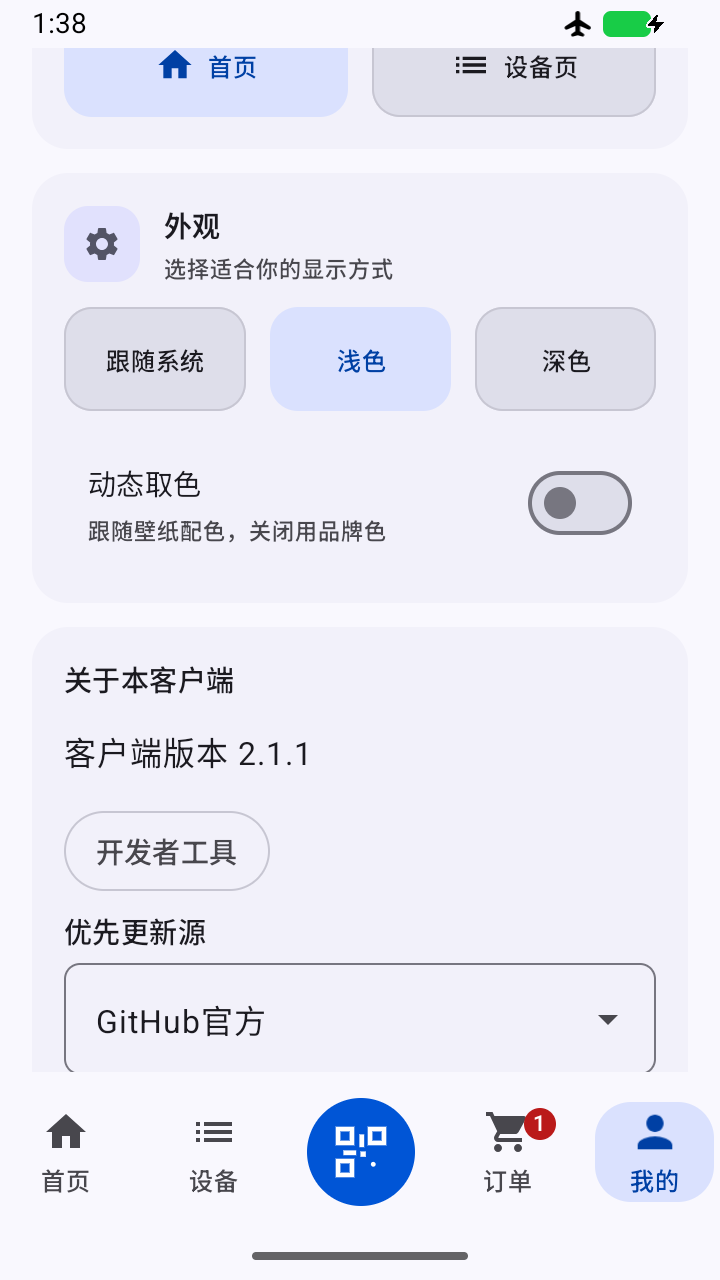
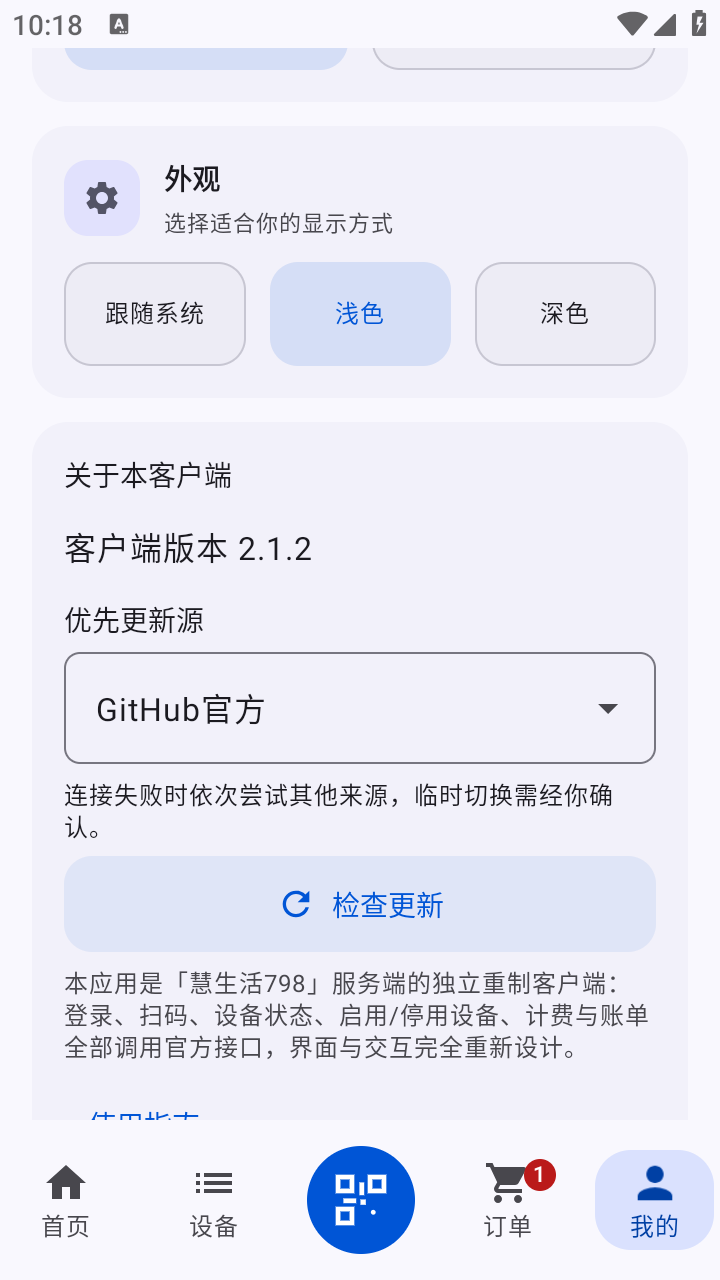
fix(ui): 恢复紧凑卡片并减轻选项按钮底色

diff --git a/SmartLife798/app/src/main/java/com/smartlife798/app/ui/MeScreen.kt b/SmartLife798/app/src/main/java/com/smartlife798/app/ui/MeScreen.kt
@@ -27,6 +27,7 @@ import androidx.compose.foundation.shape.RoundedCornerShape
 import androidx.compose.material.icons.Icons
 import androidx.compose.material.icons.automirrored.filled.ExitToApp
 import androidx.compose.material.icons.automirrored.filled.List
+import androidx.compose.material.icons.filled.Refresh
 import androidx.compose.material.icons.filled.Home
 import androidx.compose.material.icons.filled.Settings
 import androidx.compose.material3.AlertDialog
@@ -363,12 +364,26 @@ fun MeScreen(
                         }
                     }
                     Text("连接失败时依次尝试其他来源，临时切换需经你确认。", style = MaterialTheme.typography.bodySmall)
-                    OutlinedButton(
-                        shapes = androidx.compose.material3.ButtonDefaults.shapes(),
+                    androidx.compose.material3.FilledTonalButton(
+                        shapes = androidx.compose.material3.ButtonDefaults.shapes(shape = RoundedCornerShape(14.dp)),
+                        colors = androidx.compose.material3.ButtonDefaults.filledTonalButtonColors(
+                            containerColor = MaterialTheme.colorScheme.primary.copy(alpha = 0.08f),
+                            contentColor = MaterialTheme.colorScheme.primary,
+                        ),
                         onClick = { vm.checkAppUpdate(manual = true) },
-                        modifier = Modifier.fillMaxWidth(),
+                        modifier = Modifier.fillMaxWidth().heightIn(min = 48.dp),
                         enabled = !checkingUpdate,
-                    ) { Text(if (checkingUpdate) "正在检查更新…" else "检查更新") }
+                    ) {
+                        if (checkingUpdate) {
+                            androidx.compose.material3.CircularProgressIndicator(
+                                modifier = Modifier.size(18.dp), strokeWidth = 2.dp,
+                            )
+                        } else {
+                            Icon(Icons.Default.Refresh, contentDescription = null, modifier = Modifier.size(20.dp))
+                        }
+                        Spacer(Modifier.width(8.dp))
+                        Text(if (checkingUpdate) "正在检查更新…" else "检查更新")
+                    }
                     Text(
                         "本应用是「慧生活798」服务端的独立重制客户端：登录、扫码、设备状态、启用/停用设备、" +
                             "计费与账单全部调用官方接口，界面与交互完全重新设计。",

diff --git a/SmartLife798/app/src/main/java/com/smartlife798/app/ui/components/ExpressiveControls.kt b/SmartLife798/app/src/main/java/com/smartlife798/app/ui/components/ExpressiveControls.kt
@@ -154,10 +154,10 @@ private fun AdaptiveChoiceGroup(
                                         checkedShape = RoundedCornerShape(14.dp),
                                     ),
                                     colors = ToggleButtonDefaults.tonalToggleButtonColors(
-                                        containerColor = colors.surfaceContainerHighest,
-                                        checkedContainerColor = colors.primaryContainer,
+                                        containerColor = if (secondary) colors.surfaceContainerLow else colors.surfaceContainer,
+                                        checkedContainerColor = colors.primary.copy(alpha = if (secondary) 0.08f else 0.12f),
                                         contentColor = if (secondary) colors.onSurfaceVariant else colors.onSurface,
-                                        checkedContentColor = colors.onPrimaryContainer,
+                                        checkedContentColor = colors.primary,
                                     ),
                                     border = if (isSelected) null else BorderStroke(1.dp, colors.outlineVariant),
                                     contentPadding = padding,
@@ -172,10 +172,10 @@ private fun AdaptiveChoiceGroup(
                                         checkedShape = RoundedCornerShape(14.dp),
                                     ),
                                     colors = ToggleButtonDefaults.toggleButtonColors(
-                                        containerColor = colors.surfaceContainerHighest,
+                                        containerColor = if (secondary) colors.surfaceContainerLow else colors.surfaceContainer,
                                         contentColor = colors.onSurface,
-                                        checkedContainerColor = colors.primary,
-                                        checkedContentColor = colors.onPrimary,
+                                        checkedContainerColor = colors.primary.copy(alpha = 0.16f),
+                                        checkedContentColor = colors.primary,
                                     ),
                                     border = if (isSelected) null else BorderStroke(1.dp, colors.outlineVariant),
                                     contentPadding = padding, content = content)

diff --git a/SmartLife798/app/src/androidTest/java/com/smartlife798/app/VisualAlignmentChecks.kt b/SmartLife798/app/src/androidTest/java/com/smartlife798/app/VisualAlignmentChecks.kt
@@ -91,6 +91,22 @@ object VisualAlignmentChecks {
                 open("我的")
                 await { find(test, "修改昵称") != null }
                 capture("me-${theme.name.lowercase()}")
+                stage = "update button $theme"
+                await {
+                    val button = find(test, "检查更新")
+                    if (button == null) {
+                        nodes(test.uiAutomation.rootInActiveWindow).firstOrNull { it.isScrollable && it.isVisibleToUser }
+                            ?.performAction(AccessibilityNodeInfo.ACTION_SCROLL_FORWARD)
+                        false
+                    } else true
+                }
+                capture("update-${theme.name.lowercase()}")
+                repeat(6) {
+                    nodes(test.uiAutomation.rootInActiveWindow).firstOrNull { it.isScrollable && it.isVisibleToUser }
+                        ?.performAction(AccessibilityNodeInfo.ACTION_SCROLL_BACKWARD)
+                    SystemClock.sleep(100)
+                }
+                stage = "wallet navigation $theme"
                 open("钱包")
                 await { find(test, "充值金额") != null }
                 capture("wallet-${theme.name.lowercase()}")
@@ -118,7 +134,9 @@ object VisualAlignmentChecks {
             await { vm.guideDeck.value == null }
             stage = "scanner and manual input"
             open("首页")
-            open("扫码")
+            await { find(test, "打开相机扫码") != null }
+            SystemClock.sleep(500)
+            open("打开相机扫码")
             await { find(test, "手动输入") != null }
             capture("scan")
             open("手动输入")

diff --git a/SmartLife798/app/src/main/java/com/smartlife798/app/ui/HomeScreen.kt b/SmartLife798/app/src/main/java/com/smartlife798/app/ui/HomeScreen.kt
@@ -485,7 +485,7 @@ private fun FavoriteTile(device: Device, pinned: Boolean, isScrolling: () -> Boo
         colors = CardDefaults.cardColors(containerColor = if (pinned) MaterialTheme.colorScheme.surfaceContainer else MaterialTheme.colorScheme.surfaceContainerLow),
         elevation = CardDefaults.cardElevation(defaultElevation = 1.dp),
     ) {
-        Column(Modifier.padding(AppLayout.Card), verticalArrangement = Arrangement.spacedBy(8.dp)) {
+        Column(Modifier.padding(14.dp), verticalArrangement = Arrangement.spacedBy(8.dp)) {
             Row(
                 modifier = Modifier.fillMaxWidth(),
                 horizontalArrangement = Arrangement.SpaceBetween,
@@ -505,8 +505,7 @@ private fun FavoriteTile(device: Device, pinned: Boolean, isScrolling: () -> Boo
                 device.name.ifBlank { DeviceType.nameOrNull(device.dtype) ?: "设备" },
                 style = MaterialTheme.typography.titleSmall,
                 color = MaterialTheme.colorScheme.onSurface,
-                maxLines = 2,
-                minLines = 2,
+                maxLines = 1,
                 overflow = TextOverflow.Ellipsis,
             )
             Text(

diff --git a/docs/02-功能设计与UI方案.md b/docs/02-功能设计与UI方案.md
@@ -361,7 +361,7 @@ App
 
 | 页面 | 文件 | 来源与限制 |
 |---|---|---|
-| 首页 | [home.png](../screenshots/home.png) | 2.1.1，置顶与未置顶卡等高、统一状态色 |
+| 首页 | [home.png](../screenshots/home.png) | 本次样式开发构建 2.1.2 / 70，API 28，紧凑等高卡片 |
 | 设备 | [devices.png](../screenshots/devices.png) | 2.1.1，浅色列表、置顶优先与可辨识的未选中按钮 |
 | 订单 | [orders.png](../screenshots/orders.png) | 2.1.1，普通记录 |
 | 待付款 | [preview_bills.png](../screenshots/preview_bills.png) | 2.1.1，账单筛选 |
@@ -369,12 +369,12 @@ App
 | 钱包 | [wallet.png](../screenshots/wallet.png) | 2.1.1，仅展示夹具商品、未创建充值单 |
 | 设备详情 | [device.png](../screenshots/device.png) | 2.1.1，仅读取夹具，不启停设备 |
 | 登录 | [login.png](../screenshots/login.png) | 2.1.1，仅渲染表单，不发短信或提交登录 |
-| 浅色外观 | [appearance_light.png](../screenshots/appearance_light.png) | 2.1.1，动态取色关闭 |
+| 浅色外观 | [appearance_light.png](../screenshots/appearance_light.png) | 本次样式开发构建 2.1.2 / 70，API 28，浅色更新按钮与选项层级 |
 | 提示条 | [notice.png](../screenshots/notice.png) | 1.19.6，真实 Snackbar + 虚构签到响应 |
 | 账单详情 | [bill_detail.png](../screenshots/bill_detail.png) | 当前离线开发构建，固定视口、左暂不支付右去支付且等宽等高 |
 | 浅色支付面板 | [payment.png](../screenshots/payment.png) | 2.1.1，仅读取渠道，零付款/命令请求 |
-| 深色首页 | [dark.png](../screenshots/dark.png) | 2.1.1 |
-| 深色外观 | [appearance_dark.png](../screenshots/appearance_dark.png) | 2.1.1 |
+| 深色首页 | [dark.png](../screenshots/dark.png) | 本次样式开发构建 2.1.2 / 70，API 28 |
+| 深色外观 | [appearance_dark.png](../screenshots/appearance_dark.png) | 本次样式开发构建 2.1.2 / 70，API 28，深色更新按钮与选项层级 |
 | 深色支付面板 | [payment_dark.png](../screenshots/payment_dark.png) | 2.1.1，未提交付款 |
 | 首次使用 | [guide-first.png](../screenshots/guide-first.png) | 2.1.1，独立离线包，三页基础卡 |
 | 深色引导 | [guide-replay-dark.png](../screenshots/guide-replay-dark.png) | 2.1.1，同一全屏卡片重看 |
@@ -425,9 +425,11 @@ App
 
 ### 卡片与更新来源
 
-页面统一采用 AppLayout 的 16dp 外边距、16dp 卡片内边距、12dp 分组间隔及 56dp 主操作最小高度，图标和行内文字操作保持各自 Material 触控尺寸。在线状态使用绿色、运行中/启动中黄色，浅深色均保持文字对比度，离线保留原中性色。首页常用卡片始终预留徽标与两行名称，未置顶时隐藏徽标绘制和语义但保留尺寸，避免置顶或名称长短改变高度。首页常用设备、设备列表及“我的”功能卡片使用 surfaceContainerLow，置顶卡使用 surfaceContainer 略加深；首页及设备列表共用带“置顶”文字的图钉徽标，详情操作使用同一图钉。设备页收藏、常用、最近三个列表均在筛选后按置顶优先稳定排序。
+页面统一采用 AppLayout 的 16dp 外边距、16dp 卡片内边距、12dp 分组间隔及 56dp 主操作最小高度，图标和行内文字操作保持各自 Material 触控尺寸。在线状态使用绿色、运行中/启动中黄色，浅深色均保持文字对比度，离线保留原中性色。首页常用卡片使用 14dp 内边距、单行名称省略并始终预留徽标，未置顶时隐藏徽标绘制和语义但保留尺寸，避免置顶或名称长短改变高度。首页常用设备、设备列表及“我的”功能卡片使用 surfaceContainerLow，置顶卡使用 surfaceContainer 略加深；首页及设备列表共用带“置顶”文字的图钉徽标，详情操作使用同一图钉。设备页收藏、常用、最近三个列表均在筛选后按置顶优先稳定排序。
 
-“我的 → 关于本客户端”检查更新按钮上方提供优先源下拉列表：GitHub官方（默认）、gh-proxy(国内加速)。选择为安装偏好，登出保留。手动与自动检查都先尝试优先源，失败依次尝试其余源；备用源返回有效新版本后才询问是否临时切换；镜像版本不得落后于已知官方策略；没有新版本或全部失败时不弹切换确认。拒绝不采用其策略、不下载，同一备用源和版本不会在自动轮询中重复提示，手动检查可重新询问；接受后立即使用该次来源下载，不修改优先源。镜像返回的策略不持久保存，不引入强制门槛；已缓存官方强制策略仍生效。
+选项按钮的选中态使用浅蓝底，未选中保留浅灰底和边界，辅助选项底色进一步减弱。
+
+“我的 → 关于本客户端”检查更新为浅色圆角图标按钮，检查中显示进度并禁止重复点击。按钮上方提供优先源下拉列表：GitHub官方（默认）、gh-proxy(国内加速)。选择为安装偏好，登出保留。手动与自动检查都先尝试优先源，失败依次尝试其余源；备用源返回有效新版本后才询问是否临时切换；镜像版本不得落后于已知官方策略；没有新版本或全部失败时不弹切换确认。拒绝不采用其策略、不下载，同一备用源和版本不会在自动轮询中重复提示，手动检查可重新询问；接受后立即使用该次来源下载，不修改优先源。镜像返回的策略不持久保存，不引入强制门槛；已缓存官方强制策略仍生效。
 
 ### 2.x 独立签名迁移
 

diff --git a/README.md b/README.md
@@ -58,7 +58,7 @@
 
 ## 截图
 
-主要截图来自 2.1.1 / 69 候选的独立 `.offline` 夹具，使用真实 Compose 页面与终止式传输采集；默认字号与窄屏大字均完成操作回归，不代表真机帧率、签到、充值或支付验收。提示条保留历史夹具来源。来源与限制见 [截图清单](docs/02-功能设计与UI方案.md#7-界面截图)。
+首页和浅深色外观截图已在 API 28 以本次样式调整后的 2.1.2 / 70 开发构建重采；其他主要截图来自 2.1.1 / 69 候选的独立 `.offline` 夹具，使用真实 Compose 页面与终止式传输采集；默认字号与窄屏大字均完成操作回归，不代表真机帧率、签到、充值或支付验收。提示条保留历史夹具来源。来源与限制见 [截图清单](docs/02-功能设计与UI方案.md#7-界面截图)。
 
 | 首页 | 设备 | 订单 |
 |---|---|---|

diff --git a/CHANGELOG.md b/CHANGELOG.md
@@ -7,6 +7,8 @@
 
 ## [Unreleased]
 
+- 恢复常用设备卡片紧凑高度，名称单行省略且置顶等高；按钮组按选中、未选中与辅助层级减弱底色，检查更新使用浅色圆角图标按钮及检查中进度。
+
 - 核对 2.1.0 正式发布及公开更新附件。
 
 - 任务分支完成后同步清理已合并且不再使用的本地和远端分支。
